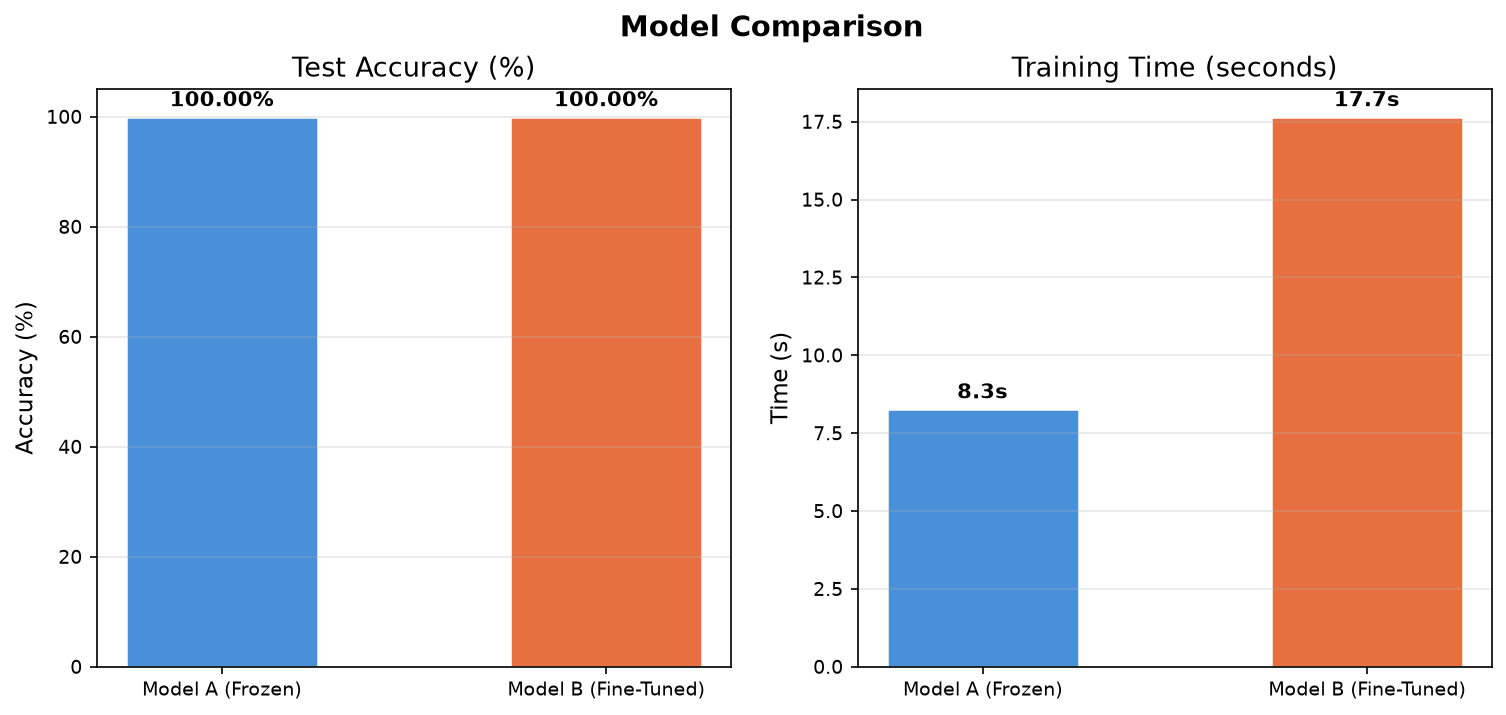
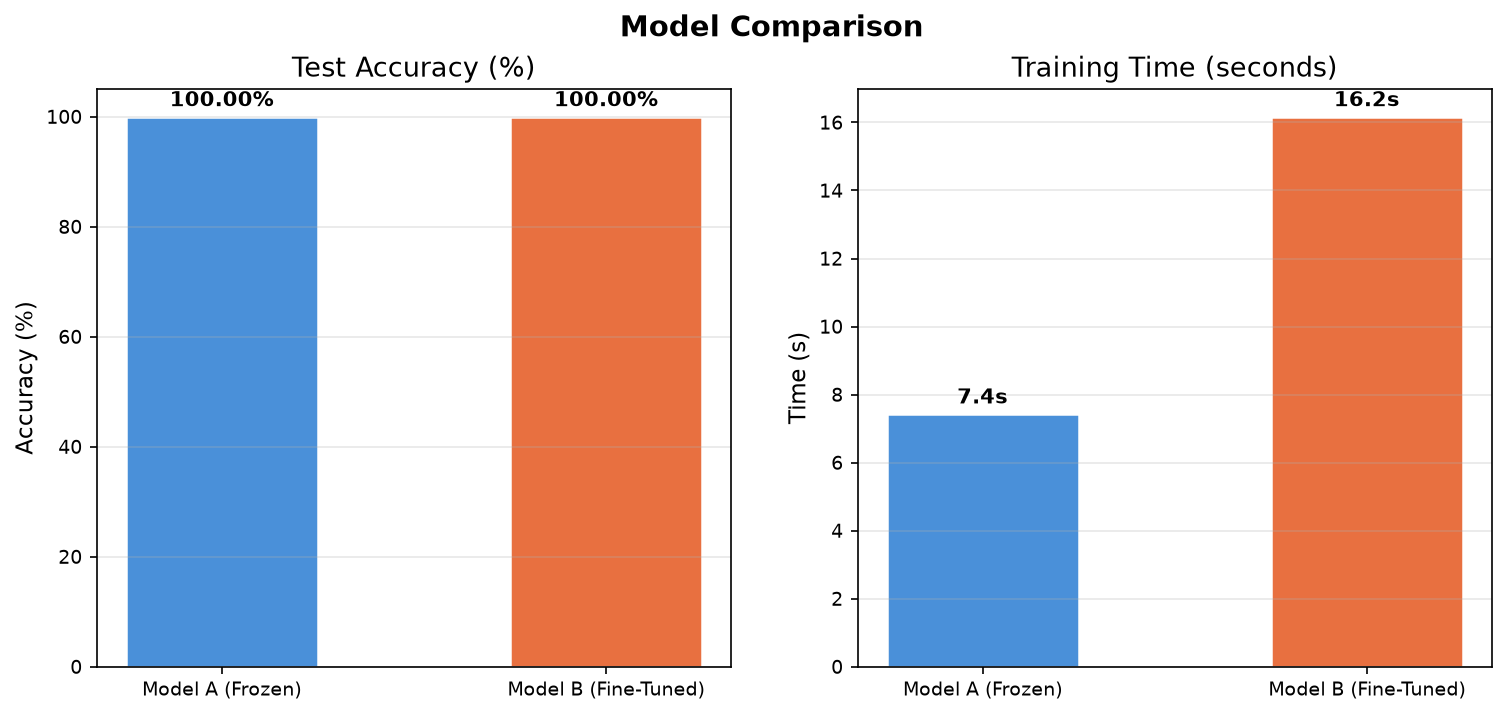
feat: add sample predictions and dataset image visualizations to output and README

diff --git a/src/visualize.py b/src/visualize.py
@@ -185,9 +185,119 @@ def plot_comparison_bars(metrics_a: dict, metrics_b: dict):
     _save(fig, "comparison_bar_charts.png")
 
 
-# ─────────────────────────────────────────────────────────────────────────────
-# 4.  All-in-one entry point called from main.py
-# ─────────────────────────────────────────────────────────────────────────────
+# -----------------------------------------------------------------------------
+# 4.  Sample images visualizations
+# -----------------------------------------------------------------------------
+
+def plot_sample_predictions(
+    model,
+    test_ds,
+    class_names: list,
+    num_samples: int = 6,
+    filename: str = "sample_predictions.png",
+):
+    """Display a grid of test images with their true and predicted labels."""
+    if model is None or test_ds is None:
+        return
+
+    images_list, labels_list = [], []
+    for imgs, lbls in test_ds:
+        images_list.append(imgs.numpy())
+        labels_list.append(lbls.numpy())
+        if sum(len(x) for x in images_list) >= num_samples:
+            break
+
+    if not images_list:
+        return
+
+    all_images = np.concatenate(images_list, axis=0)[:num_samples]
+    all_labels = np.concatenate(labels_list, axis=0)[:num_samples]
+
+    preds = model.predict(all_images, verbose=0)
+    pred_indices = np.argmax(preds, axis=1)
+    true_indices = np.argmax(all_labels, axis=1)
+    confidences  = np.max(preds, axis=1)
+
+    n = len(all_images)
+    cols = min(3, n)
+    rows = (n + cols - 1) // cols
+    fig, axes = plt.subplots(rows, cols, figsize=(4 * cols, 4 * rows))
+    axes_flat = np.array(axes).flatten()
+
+    for i in range(n):
+        # Reverse MobileNetV2 preprocessing: [-1, 1] -> [0, 1]
+        img = (all_images[i] + 1.0) / 2.0
+        img = np.clip(img, 0.0, 1.0)
+
+        true_cls = class_names[true_indices[i]]
+        pred_cls = class_names[pred_indices[i]]
+        conf = confidences[i] * 100
+
+        is_correct = (true_indices[i] == pred_indices[i])
+        color = "#2E7D32" if is_correct else "#C62828"
+
+        axes_flat[i].imshow(img)
+        axes_flat[i].axis("off")
+        title_text = f"True: {true_cls}\nPred: {pred_cls} ({conf:.1f}%)"
+        axes_flat[i].set_title(title_text, fontsize=10, fontweight="bold", color=color)
+
+    for j in range(n, len(axes_flat)):
+        axes_flat[j].axis("off")
+
+    fig.suptitle("Sample Test Predictions (Model B -- Fine-Tuned)", fontsize=14, fontweight="bold", y=1.02)
+    _save(fig, filename)
+
+
+def plot_dataset_samples(
+    data_dir: str,
+    class_names: list,
+    samples_per_class: int = 3,
+    filename: str = "sample_dataset_images.png",
+):
+    """Show representative sample images from each class folder."""
+    from PIL import Image
+
+    num_classes = len(class_names)
+    if num_classes == 0:
+        return
+
+    fig, axes = plt.subplots(
+        num_classes, samples_per_class,
+        figsize=(3.5 * samples_per_class, 3.2 * num_classes),
+    )
+
+    axes_grid = np.array(axes).reshape(num_classes, samples_per_class)
+
+    for row_idx, cls in enumerate(class_names):
+        cls_folder = os.path.join(data_dir, cls)
+        if not os.path.isdir(cls_folder):
+            continue
+        files = [
+            f for f in sorted(os.listdir(cls_folder))
+            if os.path.splitext(f)[1].lower() in config.VALID_EXTENSIONS
+        ][:samples_per_class]
+
+        for col_idx in range(samples_per_class):
+            ax = axes_grid[row_idx, col_idx]
+            if col_idx < len(files):
+                img_path = os.path.join(cls_folder, files[col_idx])
+                try:
+                    im = Image.open(img_path).convert("RGB")
+                    ax.imshow(im)
+                    if col_idx == 0:
+                        ax.set_ylabel(cls, fontsize=11, fontweight="bold")
+                except Exception:
+                    pass
+            ax.set_xticks([])
+            ax.set_yticks([])
+
+    fig.suptitle("Sample Dataset Images by Class", fontsize=14, fontweight="bold", y=1.01)
+    _save(fig, filename)
+
+
+# -----------------------------------------------------------------------------
+# 5.  All-in-one entry point called from main.py
+# -----------------------------------------------------------------------------
 
 def generate_all_plots(
     history_a,
@@ -195,11 +305,14 @@ def generate_all_plots(
     metrics_a: dict,
     metrics_b: dict,
     class_names: list,
+    model_for_samples=None,
+    test_ds=None,
+    data_dir: str = config.DATA_DIR,
 ):
     """
     Convenience wrapper that generates every plot and saves them to results/.
     """
-    print("\n[INFO] Generating visualisations …")
+    print("\n[INFO] Generating visualisations ...")
 
     plot_training_curves(history_a, history_b_list)
 
@@ -215,5 +328,11 @@ def generate_all_plots(
     )
 
     plot_comparison_bars(metrics_a, metrics_b)
+
+    if model_for_samples is not None and test_ds is not None:
+        plot_sample_predictions(model_for_samples, test_ds, class_names)
+
+    if data_dir and os.path.isdir(data_dir):
+        plot_dataset_samples(data_dir, class_names)
 
     print("[INFO] All plots saved to results/")

diff --git a/main.py b/main.py
@@ -148,13 +148,16 @@ def run_pipeline():
     compare_models(metrics_a, metrics_b)
 
     # -- 7. Generate plots --------------------------------------------------
-    print("\n[STEP 7/7] Generating plots ...")
+    print("\n[STEP 7/7] Generating plots & sample image visualisations ...")
     generate_all_plots(
         history_a,
         [history_b_head, history_b_fine],
         metrics_a,
         metrics_b,
         class_names,
+        model_for_samples=model_b,
+        test_ds=test_ds,
+        data_dir=config.DATA_DIR,
     )
 
     # -- Final summary ------------------------------------------------------

diff --git a/README.md b/README.md
@@ -403,6 +403,18 @@ Detailed class-by-class evaluation on the test set:
   <img src="results/confusion_matrix_model_b.png" alt="Confusion Matrix Model B" width="400"/>
 </p>
 
+### 4. Sample Test Predictions with Confidence
+Visual inspection of model predictions on test images with predicted class and confidence score:
+<p align="center">
+  <img src="results/sample_predictions.png" alt="Sample Predictions" width="850"/>
+</p>
+
+### 5. Sample Dataset Images by Class
+Representative sample images from each class directory in the dataset:
+<p align="center">
+  <img src="results/sample_dataset_images.png" alt="Dataset Samples" width="750"/>
+</p>
+
 ---
 
 ## Example Comparison Table
